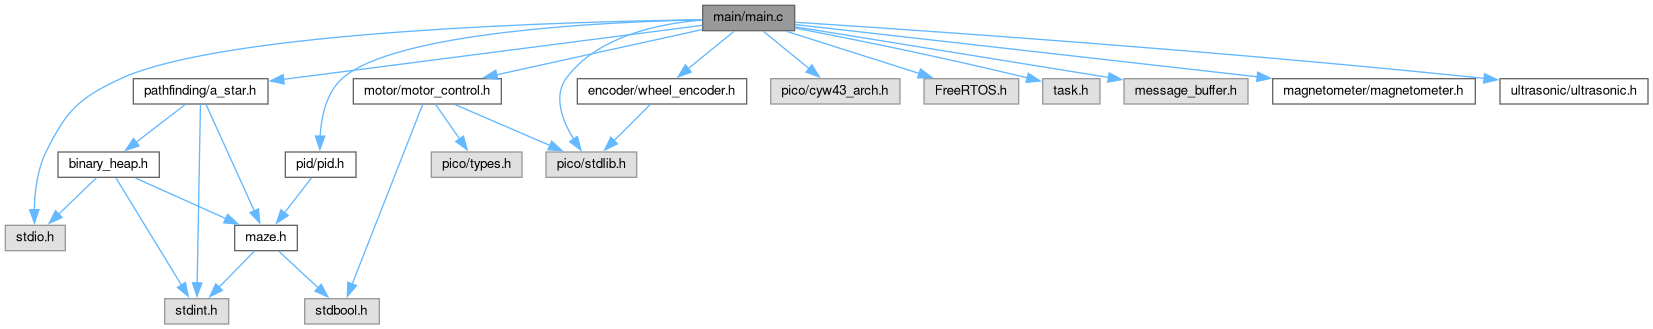
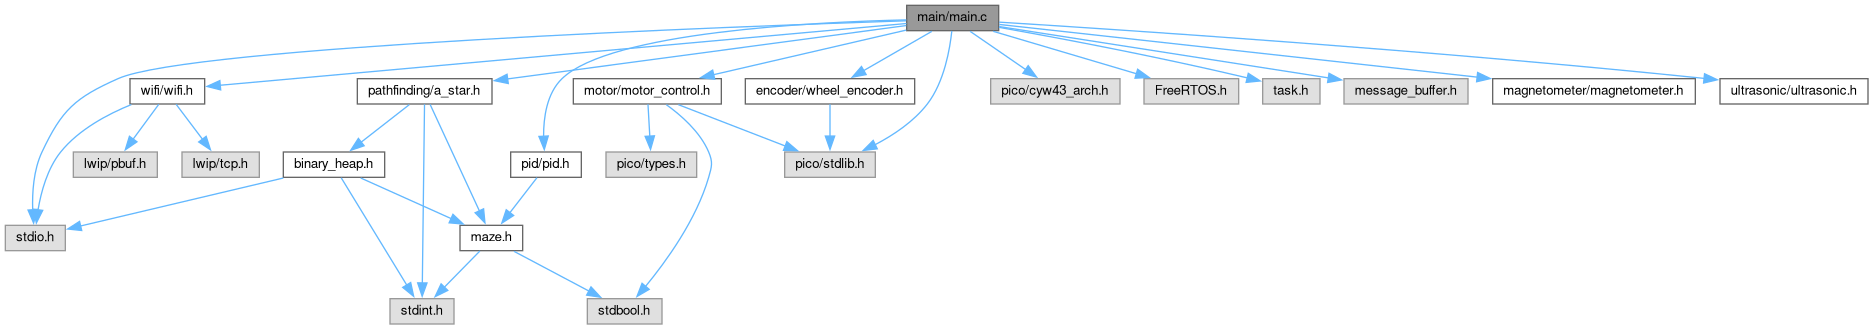
deploy: bb8476d427f7306b19e451a89789914b3d26dab2

diff --git a/dir_000004_000000.html b/dir_000004_000000.html
@@ -105,7 +105,7 @@ $(document).ready(function(){initNavTree('dir_5c982d53a68cdbcd421152b4020263a9.h
 </div>
 
 <div class="contents">
-<h3>main &rarr; driver Relation</h3><table class="dirtab"><tr class="dirtab"><th class="dirtab">File in main</th><th class="dirtab">Includes file in main/driver</th></tr><tr class="dirtab"><td class="dirtab"><a class="el" href="main_8c.html">main.c</a></td><td class="dirtab"><a class="el" href="dir_7037465db2a82242a866a8e1b79c9f42.html">magnetometer</a>&#160;/&#160;<a class="el" href="magnetometer_8h.html">magnetometer.h</a></td></tr><tr class="dirtab"><td class="dirtab"><a class="el" href="main_8c.html">main.c</a></td><td class="dirtab"><a class="el" href="dir_c60c47be64a26db5ce8a84e711bfc8d2.html">motor</a>&#160;/&#160;<a class="el" href="motor__control_8h.html">motor_control.h</a></td></tr><tr class="dirtab"><td class="dirtab"><a class="el" href="main_8c.html">main.c</a></td><td class="dirtab"><a class="el" href="dir_deb25b8f26a592b34c57622f4b00f5a0.html">ultrasonic</a>&#160;/&#160;<a class="el" href="ultrasonic_8h.html">ultrasonic.h</a></td></tr><tr class="dirtab"><td class="dirtab"><a class="el" href="dir_b513d2787555fa799f0522c9a2ea2090.html">pid</a>&#160;/&#160;<b>main.c</b></td><td class="dirtab"><a class="el" href="dir_c60c47be64a26db5ce8a84e711bfc8d2.html">motor</a>&#160;/&#160;<a class="el" href="motor__control_8h.html">motor_control.h</a></td></tr><tr class="dirtab"><td class="dirtab"><a class="el" href="dir_b513d2787555fa799f0522c9a2ea2090.html">pid</a>&#160;/&#160;<a class="el" href="pid_8c.html">pid.c</a></td><td class="dirtab"><a class="el" href="dir_c60c47be64a26db5ce8a84e711bfc8d2.html">motor</a>&#160;/&#160;<a class="el" href="motor__control_8h.html">motor_control.h</a></td></tr><tr class="dirtab"><td class="dirtab"><a class="el" href="dir_b513d2787555fa799f0522c9a2ea2090.html">pid</a>&#160;/&#160;<a class="el" href="pid_8c.html">pid.c</a></td><td class="dirtab"><a class="el" href="dir_7037465db2a82242a866a8e1b79c9f42.html">magnetometer</a>&#160;/&#160;<a class="el" href="magnetometer_8h.html">magnetometer.h</a></td></tr></table></div><!-- contents -->
+<h3>main &rarr; driver Relation</h3><table class="dirtab"><tr class="dirtab"><th class="dirtab">File in main</th><th class="dirtab">Includes file in main/driver</th></tr><tr class="dirtab"><td class="dirtab"><a class="el" href="main_8c.html">main.c</a></td><td class="dirtab"><a class="el" href="dir_7037465db2a82242a866a8e1b79c9f42.html">magnetometer</a>&#160;/&#160;<a class="el" href="magnetometer_8h.html">magnetometer.h</a></td></tr><tr class="dirtab"><td class="dirtab"><a class="el" href="main_8c.html">main.c</a></td><td class="dirtab"><a class="el" href="dir_c60c47be64a26db5ce8a84e711bfc8d2.html">motor</a>&#160;/&#160;<a class="el" href="motor__control_8h.html">motor_control.h</a></td></tr><tr class="dirtab"><td class="dirtab"><a class="el" href="main_8c.html">main.c</a></td><td class="dirtab"><a class="el" href="dir_deb25b8f26a592b34c57622f4b00f5a0.html">ultrasonic</a>&#160;/&#160;<a class="el" href="ultrasonic_8h.html">ultrasonic.h</a></td></tr><tr class="dirtab"><td class="dirtab"><a class="el" href="main_8c.html">main.c</a></td><td class="dirtab"><a class="el" href="dir_95011f6e5b26185ab733a0aa8e5658b9.html">wifi</a>&#160;/&#160;<a class="el" href="wifi_8h.html">wifi.h</a></td></tr><tr class="dirtab"><td class="dirtab"><a class="el" href="dir_b513d2787555fa799f0522c9a2ea2090.html">pid</a>&#160;/&#160;<b>main.c</b></td><td class="dirtab"><a class="el" href="dir_c60c47be64a26db5ce8a84e711bfc8d2.html">motor</a>&#160;/&#160;<a class="el" href="motor__control_8h.html">motor_control.h</a></td></tr><tr class="dirtab"><td class="dirtab"><a class="el" href="dir_b513d2787555fa799f0522c9a2ea2090.html">pid</a>&#160;/&#160;<a class="el" href="pid_8c.html">pid.c</a></td><td class="dirtab"><a class="el" href="dir_c60c47be64a26db5ce8a84e711bfc8d2.html">motor</a>&#160;/&#160;<a class="el" href="motor__control_8h.html">motor_control.h</a></td></tr><tr class="dirtab"><td class="dirtab"><a class="el" href="dir_b513d2787555fa799f0522c9a2ea2090.html">pid</a>&#160;/&#160;<a class="el" href="pid_8c.html">pid.c</a></td><td class="dirtab"><a class="el" href="dir_7037465db2a82242a866a8e1b79c9f42.html">magnetometer</a>&#160;/&#160;<a class="el" href="magnetometer_8h.html">magnetometer.h</a></td></tr></table></div><!-- contents -->
 </div><!-- doc-content -->
 <!-- start footer part -->
 <div id="nav-path" class="navpath"><!-- id is needed for treeview function! -->

diff --git a/main_8c.html b/main_8c.html
@@ -125,30 +125,34 @@ $(document).ready(function(){initNavTree('main_8c.html',''); initResizable(); })
 <code>#include &quot;<a class="el" href="ultrasonic_8h_source.html">ultrasonic/ultrasonic.h</a>&quot;</code><br />
 <code>#include &quot;encoder/wheel_encoder.h&quot;</code><br />
 <code>#include &quot;<a class="el" href="pid_8h_source.html">pid/pid.h</a>&quot;</code><br />
+<code>#include &quot;<a class="el" href="wifi_8h_source.html">wifi/wifi.h</a>&quot;</code><br />
 <code>#include &quot;<a class="el" href="a__star_8h_source.html">pathfinding/a_star.h</a>&quot;</code><br />
 </div><div class="textblock"><div class="dynheader">
 Include dependency graph for main.c:</div>
 <div class="dyncontent">
 <div class="center"><img src="main_8c__incl.png" border="0" usemap="#amain_2main_8c" alt=""/></div>
 <map name="amain_2main_8c" id="amain_2main_8c">
-<area shape="rect" title="The main source file for robot control." alt="" coords="703,5,795,31"/>
+<area shape="rect" title="The main source file for robot control." alt="" coords="907,5,999,31"/>
 <area shape="rect" title=" " alt="" coords="5,225,65,251"/>
-<area shape="rect" title=" " alt="" coords="771,79,900,104"/>
-<area shape="rect" title=" " alt="" coords="546,152,637,177"/>
-<area shape="rect" title=" " alt="" coords="924,79,1019,104"/>
-<area shape="rect" title=" " alt="" coords="1043,79,1100,104"/>
-<area shape="rect" title=" " alt="" coords="1124,79,1248,104"/>
-<area shape="rect" href="magnetometer_8h.html" title="Header file for the magnetometer driver." alt="" coords="1273,79,1475,104"/>
-<area shape="rect" href="motor__control_8h.html" title=" " alt="" coords="353,79,501,104"/>
-<area shape="rect" href="ultrasonic_8h.html" title="Header file for the ultrasonic sensor driver." alt="" coords="1500,79,1648,104"/>
-<area shape="rect" href="wheel__encoder_8h_source.html" title=" " alt="" coords="577,79,747,104"/>
-<area shape="rect" href="pid_8h.html" title=" " alt="" coords="285,152,356,177"/>
-<area shape="rect" href="a__star_8h.html" title="Header file for the a* algorithm." alt="" coords="133,79,268,104"/>
-<area shape="rect" title=" " alt="" coords="305,299,379,324"/>
-<area shape="rect" title=" " alt="" coords="431,152,522,177"/>
-<area shape="rect" href="maze_8h.html" title="Header file for the maze data structure and public functions." alt="" coords="235,225,297,251"/>
-<area shape="rect" title=" " alt="" coords="165,299,229,324"/>
-<area shape="rect" href="binary__heap_8h.html" title="This file contains the declarations for the binary min&#45;heap used in the a* algorithm." alt="" coords="58,152,159,177"/>
+<area shape="rect" title=" " alt="" coords="991,79,1120,104"/>
+<area shape="rect" title=" " alt="" coords="785,152,875,177"/>
+<area shape="rect" title=" " alt="" coords="1144,79,1239,104"/>
+<area shape="rect" title=" " alt="" coords="1263,79,1320,104"/>
+<area shape="rect" title=" " alt="" coords="1344,79,1468,104"/>
+<area shape="rect" href="magnetometer_8h.html" title="Header file for the magnetometer driver." alt="" coords="1493,79,1695,104"/>
+<area shape="rect" href="motor__control_8h.html" title=" " alt="" coords="573,79,721,104"/>
+<area shape="rect" href="ultrasonic_8h.html" title="Header file for the ultrasonic sensor driver." alt="" coords="1720,79,1868,104"/>
+<area shape="rect" href="wheel__encoder_8h_source.html" title=" " alt="" coords="745,79,915,104"/>
+<area shape="rect" href="pid_8h.html" title=" " alt="" coords="511,152,581,177"/>
+<area shape="rect" href="wifi_8h.html" title="Header file for WiFi module. This file contains the function prototypes and data structures for the W..." alt="" coords="130,79,205,104"/>
+<area shape="rect" href="a__star_8h.html" title="Header file for the a* algorithm." alt="" coords="357,79,492,104"/>
+<area shape="rect" title=" " alt="" coords="587,299,662,324"/>
+<area shape="rect" title=" " alt="" coords="606,152,697,177"/>
+<area shape="rect" href="maze_8h.html" title="Header file for the maze data structure and public functions." alt="" coords="460,225,523,251"/>
+<area shape="rect" title=" " alt="" coords="390,299,454,324"/>
+<area shape="rect" title=" " alt="" coords="73,152,157,177"/>
+<area shape="rect" title=" " alt="" coords="182,152,259,177"/>
+<area shape="rect" href="binary__heap_8h.html" title="This file contains the declarations for the binary min&#45;heap used in the a* algorithm." alt="" coords="283,152,385,177"/>
 </map>
 </div>
 </div><table class="memberdecls">

diff --git a/wifi_8h.html b/wifi_8h.html
@@ -135,9 +135,10 @@ This graph shows which files directly or indirectly include this file:</div>
 <div class="dyncontent">
 <div class="center"><img src="wifi_8h__dep__incl.png" border="0" usemap="#amain_2driver_2wifi_2wifi_8hdep" alt=""/></div>
 <map name="amain_2driver_2wifi_2wifi_8hdep" id="amain_2driver_2wifi_2wifi_8hdep">
-<area shape="rect" title="Header file for WiFi module. This file contains the function prototypes and data structures for the W..." alt="" coords="95,5,237,31"/>
+<area shape="rect" title="Header file for WiFi module. This file contains the function prototypes and data structures for the W..." alt="" coords="180,5,323,31"/>
 <area shape="rect" href="driver_2wifi_2main_8c.html" title="Demonstration for the WiFi driver." alt="" coords="5,79,156,104"/>
 <area shape="rect" href="wifi_8c.html" title="This file contains the implementation of a TCP server using lwIP. The TCP server is initialized using..." alt="" coords="180,79,323,104"/>
+<area shape="rect" href="main_8c.html" title="The main source file for robot control." alt="" coords="347,79,439,104"/>
 </map>
 </div>
 </div>

diff --git a/dir_5c982d53a68cdbcd421152b4020263a9.html b/dir_5c982d53a68cdbcd421152b4020263a9.html
@@ -114,7 +114,7 @@ Directory dependency graph for main:</div>
 <div class="center"><img src="dir_5c982d53a68cdbcd421152b4020263a9_dep.png" border="0" usemap="#adir__5c982d53a68cdbcd421152b4020263a9__dep" alt="main"/></div>
 <map name="adir__5c982d53a68cdbcd421152b4020263a9__dep" id="adir__5c982d53a68cdbcd421152b4020263a9__dep">
 <area shape="rect" href="dir_03cc0cf9f2ff9626c21c5d0b4fc5a5ff.html" title="driver" alt="" coords="27,173,82,199"/>
-<area shape="rect" href="dir_000004_000000.html" title="6" alt="" coords="62,149,70,163"/>
+<area shape="rect" href="dir_000004_000000.html" title="7" alt="" coords="62,149,70,163"/>
 <area shape="rect" href="dir_98513747c6a411bdc1bc8d498690a31e.html" title="pathfinding" alt="" coords="106,173,190,199"/>
 <area shape="rect" href="dir_000004_000006.html" title="3" alt="" coords="150,147,158,161"/>
 <area shape="rect" href="dir_b513d2787555fa799f0522c9a2ea2090.html" title="pid" alt="" coords="82,100,121,125"/>
